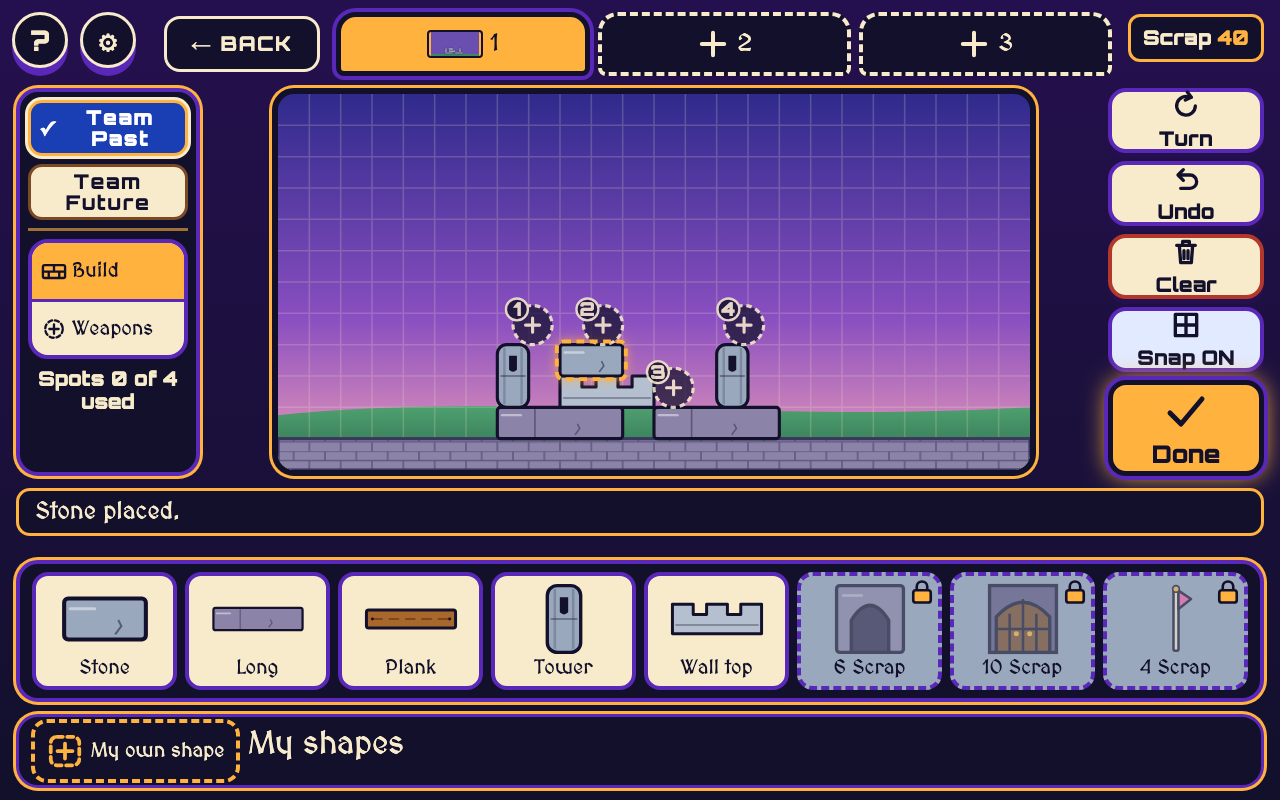
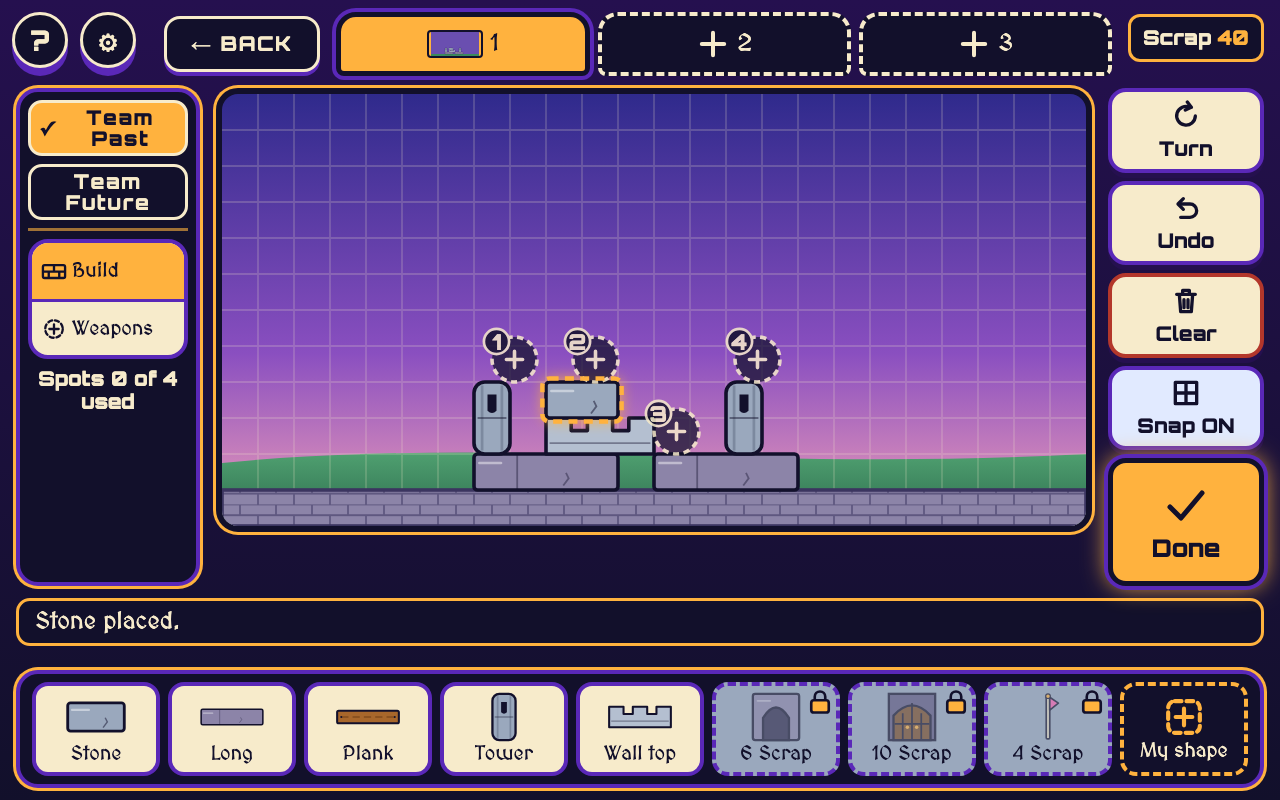
E2E and screenshots for My shape with 0, 3 and 8 saved shapes
The shapes spec now covers materials and a name, the shape's place right
before "My shape", the trash can (56px, inside the tile's upper right)
and its Yes / No, and checks that 0, 3 and 8 saved shapes, the pad and
the delete question fit with nothing cut or scrolled at 1280x800,
1024x768 and 1133x744. The old shapes screenshots are replaced by the
0, 3 and 8 shape shots and the delete question.

diff --git a/e2e/base-builder-shapes.spec.ts b/e2e/base-builder-shapes.spec.ts
@@ -1,5 +1,6 @@
-// "Make your own": draw an L on the pad, save it, drag it onto the plot, turn it, reload and see it.
-// The builder is behind ?builder=1 until the panel has reviewed it.
+// "My shape": draw on the pad with materials, name the shape, save it, find it in the main bar
+// (before the last "My shape" tile), drag it on, turn it, reload and see it. Delete it from the
+// trash can in its tile after a Yes. The builder is behind ?builder=1 until the panel has reviewed it.
 import type { Page } from '@playwright/test';
 import { expect, test } from './fixtures';
 import { bricks, cellPoint, openBuilder, toBuilderCamp } from './support/builder';
@@ -24,27 +25,81 @@ const L: Array<[number, number]> = [
 /** Drags a saved shape tile with the mouse so the middle of its box lands on cell (col, row). */
 async function dragShape(page: Page, n: number, col: number, row: number, w: number, h: number) {
   const tile = tid(page, `bb-shape-${n}`);
-  await tile.scrollIntoViewIfNeeded();
   const from = (await tile.boundingBox())!;
   const to = await cellPoint(page, col, row, w, h);
-  await page.mouse.move(from.x + from.width / 2, from.y + from.height / 2);
+  // Press low on the tile, away from the trash can at its upper right.
+  await page.mouse.move(from.x + from.width / 3, from.y + from.height * 0.75);
   await page.mouse.down();
   await page.mouse.move(to.x, to.y, { steps: 8 });
   await page.mouse.up();
+}
+
+/** Saves `n` shapes for this side straight into storage, named One, Two, ... and reloads. */
+async function seedShapes(page: Page, team: 'PAST' | 'FUTURE', n: number): Promise<void> {
+  await page.evaluate(
+    ([team, n]) => {
+      const keys = [
+        '10/10/11',
+        'w1j',
+        '111/0g0',
+        'jj/jj',
+        'g/g/g',
+        '1w1/1w1',
+        'wwww',
+        '010/111/010',
+      ];
+      const words = ['One', 'Two', 'Three', 'Four', 'Five', 'Six', 'Seven', 'Eight'];
+      const shapes = keys
+        .slice(0, n as number)
+        .map((k) => (team === 'FUTURE' ? k.replace(/w/g, 'm') : k));
+      const shapeNames: Record<string, string> = {};
+      shapes.forEach((k, i) => (shapeNames[k] = words[i]!));
+      const raw = localStorage.getItem('timeclash.bases');
+      const st = raw ? JSON.parse(raw) : { players: {} };
+      const who = team === 'PAST' ? 'alex' : 'sam';
+      const empty = () => ({ chosen: 0, slots: [null, null, null] });
+      st.players[who] ??= { PAST: empty(), FUTURE: empty() };
+      st.players[who][team as string] = { ...st.players[who][team as string], shapes, shapeNames };
+      localStorage.setItem('timeclash.bases', JSON.stringify(st));
+    },
+    [team, n] as const,
+  );
+  await page.reload();
+  await expect(tid(page, 'camp-start')).toBeVisible({ timeout: 10_000 });
+}
+
+/** Nothing on the builder scrolls or sticks out, and the rails and the bar are whole. */
+async function fits(page: Page): Promise<string[]> {
+  return page.evaluate(() => {
+    const out: string[] = [];
+    const s = document.querySelector<HTMLElement>('[data-screen="builder"]')!;
+    if (s.scrollHeight > s.clientHeight + 1 || s.scrollWidth > s.clientWidth + 1)
+      out.push('screen');
+    for (const sel of ['.tc-bb-rail', '.tc-bb-tools', '.tc-bb-tray', '.tc-bb-pad']) {
+      const el = document.querySelector<HTMLElement>(sel);
+      if (!el || el.hidden) continue;
+      if (el.scrollHeight > el.clientHeight + 1) out.push(`${sel} cut`);
+      const r = el.getBoundingClientRect();
+      if (r.bottom > innerHeight + 1 || r.right > innerWidth + 1) out.push(`${sel} off screen`);
+    }
+    return out;
+  });
 }
 
 test('draw an L, save it, drag it on, turn it, reload and see it again', async ({ page }) => {
   await toBuilderCamp(page);
   await openBuilder(page, 'PAST');
   await draw(page, L);
-  await expect(tid(page, 'bb-pad-count')).toHaveText('4 of 8 squares');
+  await expect(tid(page, 'bb-pad-count')).toHaveText('4 of 12 squares');
   await expect(tid(page, 'bb-sq-3-2')).toHaveAttribute(
     'aria-label',
-    'Square row 3 column 2, filled',
+    'Square row 3 column 2, Stone',
   );
+  await expect(tid(page, 'bb-pad-name')).toHaveValue('Shape 1');
   await tid(page, 'bb-pad-save').click();
   await expect(tid(page, 'bb-pad')).toBeHidden();
   await expect(tid(page, 'bb-shape-1')).toBeVisible();
+  await expect(tid(page, 'bb-shape-1')).toHaveAttribute('aria-label', 'Shape 1');
 
   await dragShape(page, 1, 8, 8, 2, 3);
   await expect(bricks(page)).toHaveCount(1);
@@ -61,30 +116,79 @@ test('draw an L, save it, drag it on, turn it, reload and see it again', async (
   await expect(tid(page, 'bb-shape-1')).toBeVisible();
 });
 
-test('a bad drawing says why, and a saved shape can be deleted after asking', async ({ page }) => {
+test('materials and a name: paint wood and glass, name it, find it in the bar, place it', async ({
+  page,
+}) => {
+  await toBuilderCamp(page);
+  await openBuilder(page, 'PAST');
+  await draw(page, L);
+  await tid(page, 'bb-mat-wood').click();
+  await expect(tid(page, 'bb-mat-wood')).toHaveAttribute('aria-checked', 'true');
+  await tid(page, 'bb-sq-1-1').click();
+  await tid(page, 'bb-mat-glass').click();
+  await tid(page, 'bb-sq-3-2').click();
+  await expect(tid(page, 'bb-sq-1-1')).toHaveAttribute('data-mat', 'wood');
+  await expect(tid(page, 'bb-sq-3-2')).toHaveAttribute('data-mat', 'glass');
+  await expect(tid(page, 'bb-pad-strength')).toHaveText('Strength 24');
+  await tid(page, 'bb-pad-name').fill('Lookout');
+  await tid(page, 'bb-pad-save').click();
+  await expect(tid(page, 'bb-shape-1')).toHaveAttribute('aria-label', 'Lookout');
+  await expect(tid(page, 'bb-shape-1')).toContainText('Lookout');
+  // The saved shape sits right before "My shape", the last tile in the bar.
+  const order = await tid(page, 'bb-tray').evaluate((el) =>
+    [...el.children].map(
+      (c) =>
+        c.getAttribute('data-testid') ??
+        c.querySelector('[data-testid]')?.getAttribute('data-testid'),
+    ),
+  );
+  expect(order.slice(-2)).toEqual(['bb-shape-wrap-1', 'bb-own']);
+  await dragShape(page, 1, 8, 8, 2, 3);
+  await expect(bricks(page).first()).toHaveAttribute('data-piece', 'own:P:w0/10/1g');
+  await expect(tid(page, 'bb-status')).toHaveText('Lookout placed.');
+});
+
+test('a bad drawing says why, and the trash can deletes after a Yes', async ({ page }) => {
   await toBuilderCamp(page);
   await openBuilder(page, 'PAST');
   await draw(page, [
     [1, 1],
     [3, 3],
   ]);
-  await expect(tid(page, 'bb-pad-msg')).toHaveText('Squares must touch.');
+  await expect(tid(page, 'bb-pad-msg')).toHaveText('Squares must touch side to side.');
   await expect(tid(page, 'bb-pad-save')).toHaveAttribute('aria-disabled', 'true');
   await tid(page, 'bb-sq-2-2').click();
-  await expect(tid(page, 'bb-pad-msg')).toHaveText('Squares must touch.');
+  await expect(tid(page, 'bb-pad-msg')).toHaveText('Squares must touch side to side.');
   await tid(page, 'bb-sq-2-1').click();
   await tid(page, 'bb-sq-3-2').click();
   // (1,1) (2,1) (2,2) (3,2) (3,3) is one connected group of five.
   await expect(tid(page, 'bb-pad-msg')).toHaveText('Looks good. Tap Save shape.');
   await tid(page, 'bb-pad-save').click();
   await expect(tid(page, 'bb-shape-1')).toBeVisible();
+
+  // The trash can is a 56px button inside the tile's upper right corner.
+  const tile = (await tid(page, 'bb-shape-wrap-1').boundingBox())!;
+  const can = (await tid(page, 'bb-shape-del-1').boundingBox())!;
+  expect(can.width).toBeGreaterThanOrEqual(56);
+  expect(can.height).toBeGreaterThanOrEqual(56);
+  expect(Math.abs(can.x + can.width - (tile.x + tile.width))).toBeLessThanOrEqual(1);
+  expect(Math.abs(can.y - tile.y)).toBeLessThanOrEqual(1);
+
   await tid(page, 'bb-shape-del-1').click();
-  await expect(tid(page, 'bb-clear-yes')).toBeVisible();
-  await tid(page, 'bb-clear-no').click();
+  await expect(tid(page, 'bb-shape-ask-1')).toBeVisible();
+  await expect(tid(page, 'bb-shape-no-1')).toBeFocused();
+  for (const id of ['bb-shape-yes-1', 'bb-shape-no-1']) {
+    const b = (await tid(page, id).boundingBox())!;
+    expect(b.width).toBeGreaterThanOrEqual(56);
+    expect(b.height).toBeGreaterThanOrEqual(56);
+  }
+  await tid(page, 'bb-shape-no-1').click();
+  await expect(tid(page, 'bb-shape-ask-1')).toBeHidden();
   await expect(tid(page, 'bb-shape-1')).toBeVisible();
   await tid(page, 'bb-shape-del-1').click();
-  await tid(page, 'bb-clear-yes').click();
+  await tid(page, 'bb-shape-yes-1').click();
   await expect(tid(page, 'bb-shape-1')).toHaveCount(0);
+  await expect(tid(page, 'bb-own')).toBeFocused();
 });
 
 test('keyboard: arrows move over the pad, Space fills, Enter saves', async ({ page }) => {
@@ -103,34 +207,56 @@ test('keyboard: arrows move over the pad, Space fills, Enter saves', async ({ pa
 });
 
 for (const team of ['PAST', 'FUTURE'] as const) {
-  test(`${team} pad and a base with a shape of your own look right`, async ({
+  test(`${team}: 0, 3 and 8 saved shapes, the pad and the delete question all fit`, async ({
     page,
     browserName,
   }) => {
+    const side = team.toLowerCase();
     await toBuilderCamp(page);
-    await openBuilder(page, team);
-    await tid(page, 'bb-own').click();
-    await saveShot(page, browserName, `base-builder-shapes-pad-${team.toLowerCase()}`);
-    await tid(page, 'bb-pad-save').click();
-    await tid(page, 'bb-own').click();
-    await tid(page, 'bb-pad-clear').click();
-    for (const [r, c] of [
-      [1, 1],
-      [1, 2],
-      [1, 3],
-      [2, 2],
-    ] as const)
-      await tid(page, `bb-sq-${r}-${c}`).click();
-    await tid(page, 'bb-pad-save').click();
-    await dragShape(page, 1, 6, 8, 2, 3);
-    await dragShape(page, 2, 12, 9, 3, 2);
-    await expect(bricks(page)).toHaveCount(2);
-    await saveShot(page, browserName, `base-builder-shapes-${team.toLowerCase()}`);
-    // The tray fits: nothing sticks out past the screen.
-    const overflow = await page.evaluate(() => {
-      const el = document.querySelector<HTMLElement>('[data-screen="builder"]')!;
-      return el.scrollHeight > el.clientHeight + 1 || el.scrollWidth > el.clientWidth + 1;
-    });
-    expect(overflow).toBe(false);
+    for (const n of [0, 3, 8]) {
+      await seedShapes(page, team, n);
+      await openBuilder(page, team);
+      await expect(page.locator('.tc-bb-mine')).toHaveCount(n);
+      await expect(tid(page, 'bb-own')).toBeInViewport({ ratio: 1 });
+      expect(await fits(page)).toEqual([]);
+      await saveShot(page, browserName, `base-builder-shapes-${n}-${side}`);
+      if (n === 8) {
+        await tid(page, 'bb-shape-del-3').click();
+        await expect(tid(page, 'bb-shape-ask-3')).toBeInViewport({ ratio: 1 });
+        await saveShot(page, browserName, `base-builder-shapes-delete-${side}`);
+        await tid(page, 'bb-shape-no-3').click();
+        await tid(page, 'bb-own').click();
+        await tid(page, `bb-mat-${team === 'PAST' ? 'wood' : 'metal'}`).click();
+        await tid(page, 'bb-sq-1-2').click();
+        await tid(page, 'bb-sq-2-2').click();
+        await tid(page, 'bb-mat-glass').click();
+        await tid(page, 'bb-sq-3-3').click();
+        await tid(page, 'bb-mat-jelly').click();
+        await tid(page, 'bb-sq-4-3').click();
+        await expect(tid(page, 'bb-sq-6-6')).toBeInViewport({ ratio: 1 });
+        await expect(tid(page, 'bb-pad-save')).toBeInViewport({ ratio: 1 });
+        expect(await fits(page)).toEqual([]);
+        await saveShot(page, browserName, `base-builder-shapes-pad-${side}`);
+        await tid(page, 'bb-pad-close').click();
+      }
+      await tid(page, 'bb-back').click();
+    }
   });
 }
+
+test.describe('iPad mini (1133 by 744)', () => {
+  test.use({ viewport: { width: 1133, height: 744 } });
+  test('8 saved shapes, the pad and the delete question fit', async ({ page }, info) => {
+    test.skip(!info.project.name.endsWith('1280x800'), 'One extra size, run once per browser');
+    await toBuilderCamp(page);
+    await seedShapes(page, 'PAST', 8);
+    await openBuilder(page, 'PAST');
+    expect(await fits(page)).toEqual([]);
+    await tid(page, 'bb-shape-del-8').click();
+    await expect(tid(page, 'bb-shape-ask-8')).toBeInViewport({ ratio: 1 });
+    await tid(page, 'bb-shape-no-8').click();
+    await tid(page, 'bb-own').click();
+    await expect(tid(page, 'bb-sq-6-6')).toBeInViewport({ ratio: 1 });
+    expect(await fits(page)).toEqual([]);
+  });
+});

diff --git a/e2e/base-builder-shapes-touch.spec.ts b/e2e/base-builder-shapes-touch.spec.ts
@@ -59,7 +59,7 @@ test('touch: tap an L on the pad, save it, drag it on, turn it, reload and see i
     [3, 2],
   ] as const)
     await tid(page, `bb-sq-${r}-${c}`).tap();
-  await expect(tid(page, 'bb-pad-count')).toHaveText('4 of 8 squares');
+  await expect(tid(page, 'bb-pad-count')).toHaveText('4 of 12 squares');
   await tid(page, 'bb-pad-save').tap();
   await expect(tid(page, 'bb-shape-1')).toBeVisible();
 
@@ -101,7 +101,7 @@ test('touch: the pad and the saved shapes meet the 56px and 20px rules', async (
         out.push(`${el.dataset.testid}: small font`);
     }
     for (const el of document.querySelectorAll<HTMLElement>(
-      '.tc-bb-pad p, .tc-bb-pad h2, .tc-bb-shapes h2',
+      '.tc-bb-pad p, .tc-bb-pad h2, .tc-bb-pad label, .tc-bb-mine-name',
     )) {
       if (el.getBoundingClientRect().width && parseFloat(getComputedStyle(el).fontSize) < 20)
         out.push(`${el.className}: small font`);
